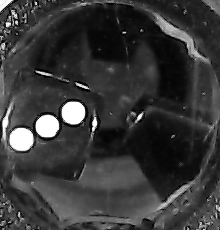
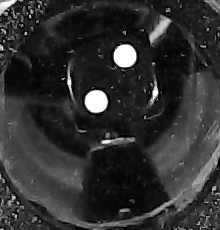
neue filter

diff --git a/python/debugging.py b/python/debugging.py
@@ -1,0 +1,102 @@
+import numpy as np
+import cv2
+
+cap = cv2.VideoCapture(0)
+
+ret, empty_frame = cap.read() # ret gibt true oder false zurück, checkt ob video läuft
+       
+y=200
+h=230
+    
+x=280
+w=220
+
+empty_frame = empty_frame[y:y + h, x:x + w] 
+
+empty_frame = cv2.cvtColor(empty_frame, cv2.COLOR_BGR2GRAY) #Kamerabild in Graustufen
+
+cv2.imshow('INPUT_EMPTY', empty_frame) #Aufgenommenes Bild anzeigen
+
+
+while(True):
+    ret, real_frame = cap.read() # ret gibt true oder false zurück, checkt ob video läuft
+       
+    y=200
+    h=230
+    
+    x=280
+    w=220
+
+    real_frame = real_frame[y:y + h, x:x + w] 
+
+    input_frame = real_frame # umspeichern um das Originalbild zu behalten
+    input_frame = cv2.cvtColor(input_frame, cv2.COLOR_BGR2GRAY) #Kamerabild in Graustufen
+
+    cv2.imshow('INPUT', input_frame) #Aufgenommenes Bild anzeigen
+
+    ret, binary_image = cv2.threshold(input_frame, 180, 255, cv2.THRESH_BINARY)
+
+    cv2.imshow('INPUT_BINARY', binary_image)
+
+
+    #kernel = np.ones((5, 5), np.uint8)
+
+    #kernel_round = np.array([[0, 0, 1, 0, 0],[0,1,1,1,0],[1,1,1,1,1],[0,1,1,1,0],[0,0,1,0,0]], dtype=np.uint8)
+    #opening1 = cv2.morphologyEx(binary_image, cv2.MORPH_OPEN, kernel_round)
+    #erosion1 = cv2.erode(binary_image, kernel_round, iterations = 1)
+    #cv2.imshow('KERNEL_ROUND', erosion1)
+
+    kernel_round = cv2.getStructuringElement(cv2.MORPH_ELLIPSE,(9,9))
+
+
+    kernel_rect = np.ones((9, 9), np.uint8)
+    opening = cv2.morphologyEx(binary_image, cv2.MORPH_OPEN, kernel_rect)
+    
+    cv2.imshow('opening', opening)    
+    
+    kernel_rect = np.ones((7, 7), np.uint8)
+    kernel_round = cv2.getStructuringElement(cv2.MORPH_ELLIPSE,(12,12))
+    erosion = cv2.erode(opening, kernel_round, iterations = 2)
+
+    cv2.imshow('KERNEL_RECT', erosion)
+    
+    
+    kernel_rect = np.ones((5, 5), np.uint8)
+    
+    kernel_round = np.array([[0,0,0,1,1,1,0,0,0],
+                             [0,1,1,1,1,1,1,1,0],
+                             [0,1,1,1,1,1,1,1,0],
+                             [1,1,1,1,1,1,1,1,1],
+                             [1,1,1,1,1,1,1,1,1],
+                             [1,1,1,1,1,1,1,1,1],
+                             [0,1,1,1,1,1,1,1,0],
+                             [0,1,1,1,1,1,1,1,0],
+                             [0,0,0,1,1,1,0,0,0]], dtype=np.uint8)
+    
+    #kernel_round = cv2.getStructuringElement(cv2.MORPH_ELLIPSE,(12,12))
+    dilate = cv2.dilate(erosion, kernel_round, iterations = 2)    
+    
+    cv2.imshow('DILATE', dilate)
+
+    #closing = cv2.morphologyEx(opening, cv2.MORPH_CLOSE, kernel)
+
+  #  closing =  erosion
+#    closing = cv2.bitwise_not(closing)
+
+#    w = closing.shape[1]  # y
+#    h = closing.shape[0]  # x
+
+#    mask = np.zeros((h + 2, w + 2), np.uint8)
+    
+#    cv2.floodFill(closing, mask, (0, 0), 255);
+#    cv2.floodFill(closing, mask, (0, 200), 255)
+
+    if cv2.waitKey(1) & 0xFF == ord('q'): # Q zum beenden
+        break
+    elif ret == 0:  # oder Aufnahme wird beendet
+        break
+
+# When everything done, release the capture
+cap.release()
+cv2.destroyAllWindows()
+    

diff --git a/python/tkinter_GUI.py b/python/tkinter_GUI.py
@@ -167,7 +167,9 @@ def img_processing(imageinput):
     
     ret, binary_image = cv2.threshold(imageinput, binary_slider.get(), 255, cv2.THRESH_BINARY)
 
-    kernel = np.ones((6, 6), np.uint8)
+    #kernel = np.ones((5, 5), np.uint8)
+
+    kernel = np.array([[0, 0, 1, 0, 0],[0,1,1,1,0],[1,1,1,1,1],[0,1,1,1,0],[0,0,1,0,0]], dtype=np.uint8)
 
     opening = cv2.morphologyEx(binary_image, cv2.MORPH_OPEN, kernel)
     erosion = cv2.erode(opening, kernel, iterations = 1)
@@ -181,6 +183,7 @@ def img_processing(imageinput):
     h = closing.shape[0]  # x
 
     mask = np.zeros((h + 2, w + 2), np.uint8)
+    
     cv2.floodFill(closing, mask, (0, 0), 255);
     cv2.floodFill(closing, mask, (0, 200), 255)
     
@@ -347,7 +350,7 @@ start_stop=IntVar()
 
 
 Checkbutton(bottomFrame, text="Binary", variable=bin_true).grid(row=1, column=4)
-Checkbutton(bottomFrame, text="würfeln", variable=start_stop).grid(row=1, column=5)
+Checkbutton(bottomFrame, text="roll", variable=start_stop).grid(row=1, column=5)
 Checkbutton(bottomFrame, text="Error logging", variable=error_logging).grid(row=1, column=6)
 
 
@@ -377,11 +380,11 @@ raw_image.grid(row=0, column=0)
 output_image = Label(topFrame, image=dummy_image)
 output_image.grid(row=1, column=0)
 
-Label(bottomFrame, text='Gesamtwürfe: ').grid(row=0, column=1, sticky=W)
+Label(bottomFrame, text='All rolls: ').grid(row=0, column=1, sticky=W)
 all_rolls = Label(bottomFrame, text='0')
 all_rolls.grid(row=0, column=2, sticky=W)
 
-Label(bottomFrame, text='Fehler: ').grid(row=1, column=1, sticky=W)
+Label(bottomFrame, text='Errors: ').grid(row=1, column=1, sticky=W)
 errors = Label(bottomFrame, text='0')
 errors.grid(row=1, column=2, sticky=W)
 
@@ -391,7 +394,7 @@ detected_number.grid(row=0, column=2, rowspan=2)
 
 fig1 = Figure()   
 ax = fig1.add_subplot(111)
-ax.set_xlabel('Augenzahlen')
+ax.set_xlabel('Numbers')
 ax.set_ylabel('Häufigkeit')
 
 canvas1 = FigureCanvasTkAgg(fig1, topFrame)

diff --git a/python/testing/main_trackbars.py b/python/testing/main_trackbars.py
@@ -42,7 +42,7 @@ def exposure(input_value):
     exposure_value = input_value
 
 
-cap = cv2.VideoCapture(1)
+cap = cv2.VideoCapture(0)
 
 #startwerte
 binary_value = 100
@@ -112,6 +112,9 @@ while(True):
 
     #binary_image_neg = cv2.bitwise_not(binary_image)
     #binary_image_neg = cv2.medianBlur(binary_image_neg, 5)
+
+    
+
 
     kernel = np.ones((5, 5), np.uint8)
 

diff --git a/python/testing/mask.py b/python/testing/mask.py
@@ -1,0 +1,16 @@
+import cv2
+import numpy as np
+
+cv2.getStructuringElement(cv2.MORPH_ELLIPSE,(5,5))
+
+print(cv2.getStructuringElement(cv2.MORPH_ELLIPSE,(5,5)))
+
+kernel = [[0,0,1,0,0],
+          [0,1,1,1,0],
+          [1,1,1,1,1],
+          [0,1,1,1,0],
+          [0,0,1,0,0]]
+# np.ones((6, 6), np.uint8)
+
+print(kernel)
+
